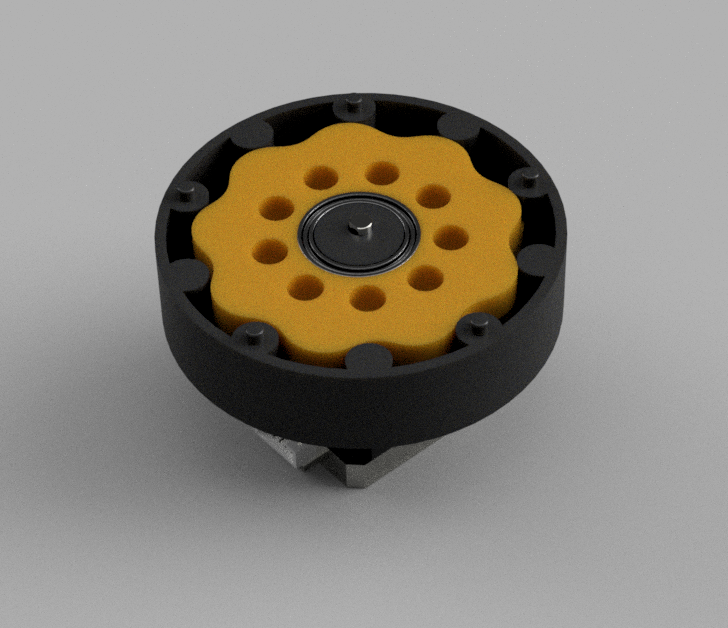
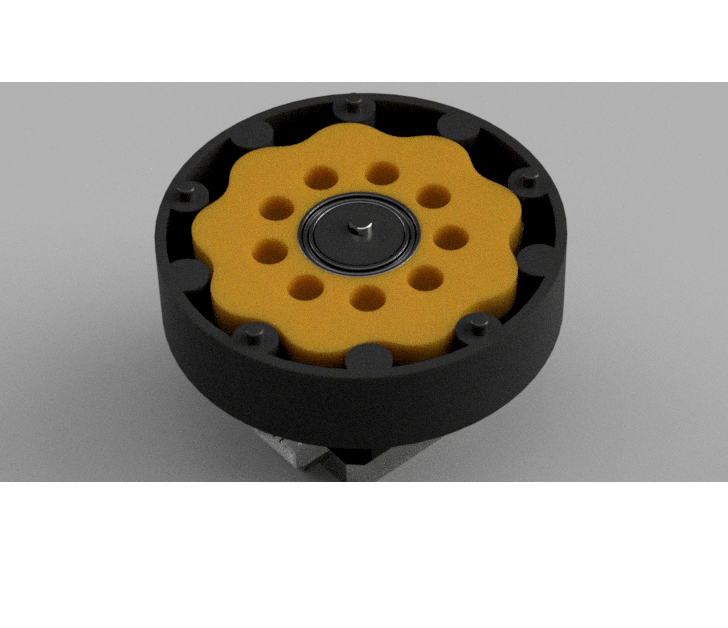
cleaning

diff --git a/README.md b/README.md
@@ -68,10 +68,4 @@ This gearbox was the first working version to run on a NEMA 17. It has a larger 
 1) The housing pins can be replaces with MR128 bearings allowing for less friction and higher efficency in the gearbox.
 
 2) The output pins can be replaced with M2 screws with metall coverings to increase rgidity ,maximum torque output, and the efficency of the gearbox.
----
-
-## 📁 Other Versions & History
-
-- **Version 1:** Initial hand-powered demonstration cycloidal gearbox model.
-- **Version 2:** Micro cycloidal gearbox prototype for NEMA 17 (experimental).
 
